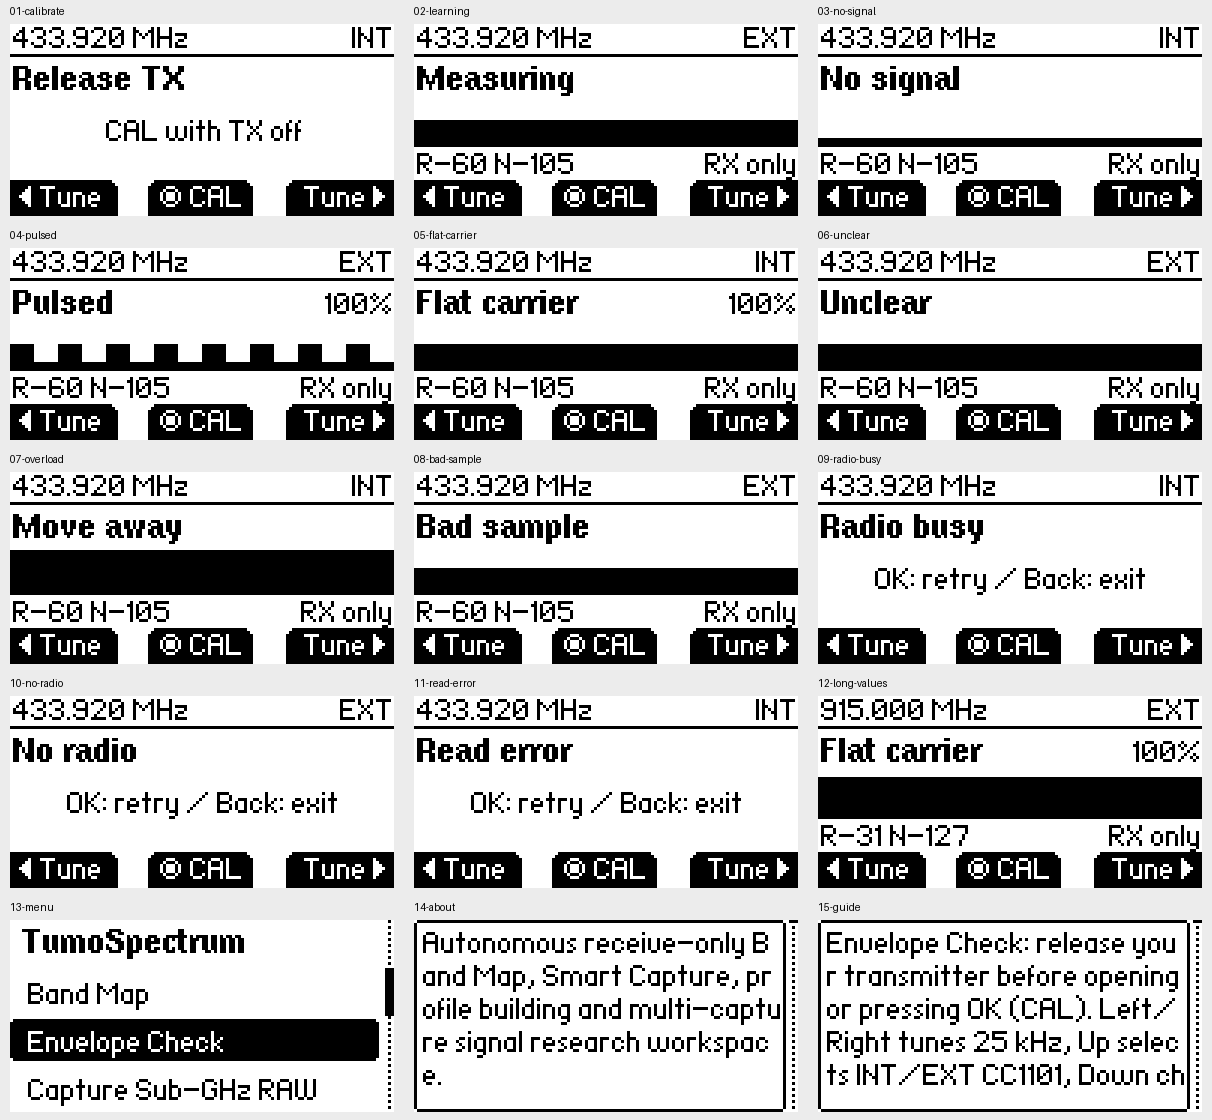
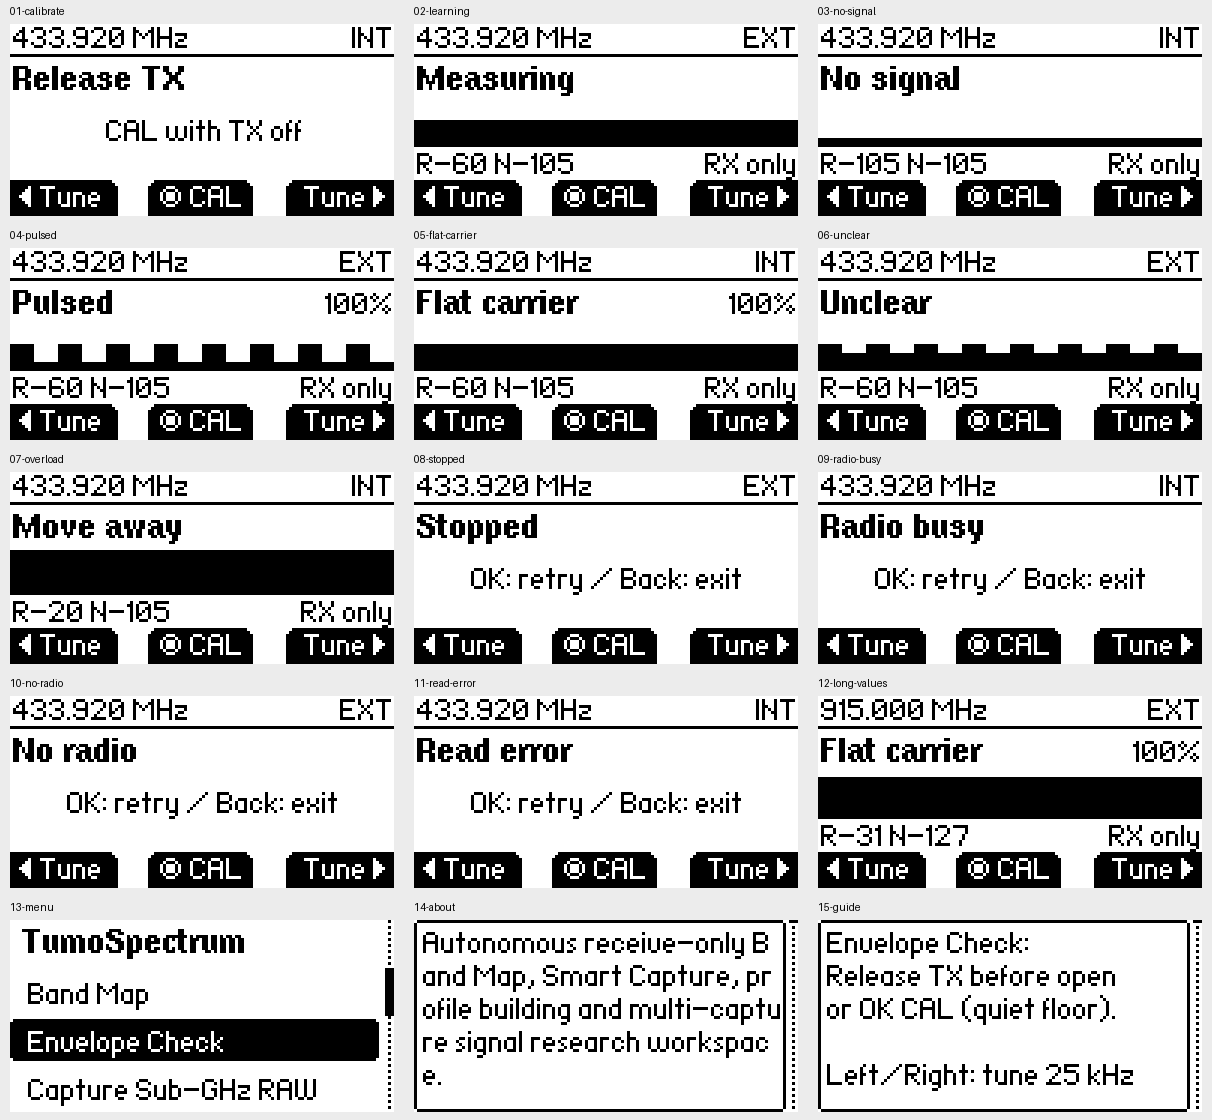
fix: keep envelope help readable on the native display
Explicit line breaks avoid splitting the new control/limits text. Preview fixtures now keep RSSI values consistent with quiet/overloaded samples and show the reachable Stopped state. Fifteen native frames and 28 focused tests pass; no radio, ABI or timing changes.

diff --git a/tools/tumoflip/render_envelope_native.py b/tools/tumoflip/render_envelope_native.py
@@ -51,21 +51,23 @@ int main(int argc,char**argv){
  static const u8x8_display_info_t info={.tile_width=16,.tile_height=8,.pixel_width=128,.pixel_height=64};
  c.fb.u8x8.display_info=&info;u8g2_SetupBuffer(&c.fb,buf,8,u8g2_ll_hvline_vertical_top_lsb,U8G2_R0);canvas_set_color(&c,ColorBlack);
  TumoSpectrumEnvelopeModel m={.snapshot={.status=TumoEnvelopeRunning,.frequency_hz=433920000,.floor_dbm=-105,.high_dbm=-60}};
- const char*names[]={"01-calibrate","02-learning","03-no-signal","04-pulsed","05-flat-carrier","06-unclear","07-overload","08-bad-sample","09-radio-busy","10-no-radio","11-read-error","12-long-values"};
+ const char*names[]={"01-calibrate","02-learning","03-no-signal","04-pulsed","05-flat-carrier","06-unclear","07-overload","08-stopped","09-radio-busy","10-no-radio","11-read-error","12-long-values"};
  for(unsigned state=0;state<12;state++){
-  TumoEnvelopeSnapshot*s=&m.snapshot;s->status=TumoEnvelopeRunning;s->calibrated=state>0;s->external=state%2;s->frequency_hz=state==11?915000000:433920000;s->agreement=0;
+  TumoEnvelopeSnapshot*s=&m.snapshot;s->status=TumoEnvelopeRunning;s->calibrated=state>0;s->external=state%2;s->frequency_hz=state==11?915000000:433920000;s->agreement=0;s->floor_dbm=-105;s->high_dbm=state==2?-105:state==6?-20:-60;
   s->kind=state==1?TumoEnvelopeLearning:state==2?TumoEnvelopeNoSignal:state==3?TumoEnvelopePulsed:state==4?TumoEnvelopeFlat:state==5?TumoEnvelopeUnclear:state==6?TumoEnvelopeTooStrong:TumoEnvelopeInvalid;
   if(state>=8&&state<=10)s->status=state==8?TumoEnvelopeBusy:state==9?TumoEnvelopeMissing:TumoEnvelopeError;
+  if(state==7)s->status=TumoEnvelopeIdle;
+  if(state>=7&&state<=10){s->calibrated=false;s->floor_dbm=-127;s->high_dbm=-127;}
   if(state==3||state==4)s->agreement=100;
   if(state==11){s->kind=TumoEnvelopeFlat;s->agreement=100;s->floor_dbm=-127;s->high_dbm=-31;}
-  for(unsigned i=0;i<128;i++)s->samples[i]=state==3?(i%16<8?-60:-105):state==2?-105:state==6?-20:state==11?-31:-60;
+  for(unsigned i=0;i<128;i++)s->samples[i]=state==3?(i%16<8?-60:-105):state==5?(i%16<8?-60:-83):state==2?-105:state==6?-20:state==11?-31:-60;
   text_count=0;tumospectrum_envelope_draw(&c,&m);save(&c,argv[1],names[state]);
  }
  const char*items[]={"Band Map","Envelope Check","Capture Sub-GHz RAW","Capture Infrared RAW"};
  menu(&c,argv[1],"13-menu","TumoSpectrum",items,4,1,0);
 '''
     source += 'text_page(&c,argv[1],"14-about",' + radio.message(workbench, "Autonomous receive-only Band Map,") + ',0);\n'
-    source += 'text_page(&c,argv[1],"15-guide",' + radio.message(workbench, "Envelope Check: release") + ',0);\nreturn 0;}'
+    source += 'text_page(&c,argv[1],"15-guide",' + radio.message(workbench, "Envelope Check:") + ',0);\nreturn 0;}'
     return source
 
 

diff --git a/applications_user/signal_workbench/signal_workbench.c b/applications_user/signal_workbench/signal_workbench.c
@@ -2661,8 +2661,8 @@ static void tumospectrum_menu_callback(void* context, uint32_t index) {
             "TumoSpectrum 3.5",
             "Autonomous receive-only Band Map, Smart Capture, profile building and multi-capture signal research workspace.\n\n"
             "Band Map: Left/Right tunes, Up changes band, Down selects radio. Long Up zooms, long Down snaps to peak and long OK holds the scan.\n\n"
-            "Envelope Check: release your transmitter before opening or pressing OK (CAL). Left/Right tunes 25 kHz, Up selects INT/EXT CC1101, Down changes band. Back releases the radio.\n\n"
-            "Pulsed / Flat carrier describes RSSI amplitude only, not AM/FM or a protocol. Percent is agreement of recent windows, not identification confidence. Flat can be FM, CW or interference. Fast bursts may be missed.\n\n"
+            "Envelope Check:\nRelease TX before open\nor OK CAL (quiet floor).\n\nLeft/Right: tune 25 kHz\nUp: INT/EXT CC1101\nDown: next common band\nBack: release radio.\n\n"
+            "RSSI envelope only:\nPulsed / Flat / Unclear\nis NOT AM/FM or protocol\nidentification. Percent\nmeans window agreement,\nnot confidence. Flat may\nbe FM, CW or interference.\nFast bursts may be missed.\n\n"
             "Protocol Profiles performs bounded receive-only decoding on Flipper and logs changed observations to SD.\n\n"
             "Capture Sets opens the latest analysis or browses saved sessions. Source files are checked by content digest and never modified.\n\n"
             "A Sub-GHz capture set can build a receive-only live profile from three or four RAW recordings without a computer.\n\n"
